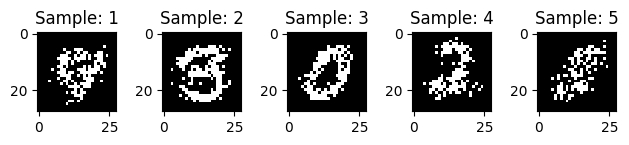
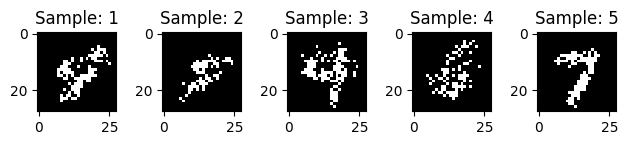
Q7 Left for P9

diff --git a/hw1/programming/pa1.py b/hw1/programming/pa1.py
@@ -12,6 +12,9 @@ import pickle as pkl
 from scipy.io import loadmat
 
 
+NUM_PIXELS = 28*28
+
+
 def plot_histogram(data, title='histogram', xlabel='value', ylabel='frequency',
                    savefile='hist'):
   '''
@@ -50,7 +53,7 @@ def get_p_z2(z2_val):
 
 def get_p_xk_cond_z1_z2(z1_val, z2_val, k):
   '''
-  Helper. Computes the conditional probability that variable xk assumes value 1 
+  Helper. Computes the conditional probability that variable xk assumes value 1
   given that z1 assumes value z1_val and z2 assumes value z2_val
   P(Xk = 1 | Z1=z1_val , Z2=z2_val)
   '''
@@ -60,10 +63,9 @@ def get_p_xk_cond_z1_z2(z1_val, z2_val, k):
 
 def get_p_x_cond_z1_z2(z1_val, z2_val):
   '''
-  Computes the conditional probability of the entire vector x,
+  Computes the conditional probability of the entire vector x for x = 1,
   given that z1 assumes value z1_val and z2 assumes value z2_val
   '''
-  NUM_PIXELS = 28*28
   pk = np.zeros(NUM_PIXELS)
   for i in range(NUM_PIXELS):
     pk[i] = get_p_xk_cond_z1_z2(z1_val, z2_val, i+1)
@@ -72,19 +74,17 @@ def get_p_x_cond_z1_z2(z1_val, z2_val):
 
 def get_pixels_sampled_from_p_x_joint_z1_z2():
   '''
-  This function should sample from the joint probability distribution specified by the model, 
-  and return the sampled values of all the pixel variables (x). 
-  Note that this function should return the sampled values of ONLY the pixel variables (x),
-  discarding the z part.
+  This function should sample from the joint probability distribution specified
+  by the model, and return the sampled values of all the pixel variables (x).
+  Note that this function should return the sampled values of ONLY the pixel
+  variables (x), discarding the z part.
   '''
-  NUM_ZVALS = 25
-  ZVALS = np.linspace(-3.0, 3.0, num=NUM_ZVALS, endpoint=True)
-  z1_dist = [get_p_z1(z_val) for z_val in ZVALS]
+  z1_dist = [get_p_z1(z_val) for z_val in disc_z1]
   assert abs(np.sum(z1_dist) - 1) < 1e-7
-  z2_dist = [get_p_z2(z_val) for z_val in ZVALS]
+  z2_dist = [get_p_z2(z_val) for z_val in disc_z2]
   assert abs(np.sum(z2_dist) - 1) < 1e-7
-  z1_sample = np.random.choice(ZVALS, p=z1_dist)
-  z2_sample = np.random.choice(ZVALS, p=z2_dist)
+  z1_sample = np.random.choice(disc_z1, p=z1_dist)
+  z2_sample = np.random.choice(disc_z2, p=z2_dist)
   pixel_dist = get_p_x_cond_z1_z2(z1_sample, z2_sample)
   return np.array([np.random.choice([1, 0], p=[p1, 1.0-p1])
                    for p1 in pixel_dist])
@@ -99,8 +99,8 @@ def get_conditional_expectation(data):
 
 def q4():
   '''
-  Plots the pixel variables sampled from the joint distribution as 28 x 28 images.
-  Your job is to implement get_pixels_sampled_from_p_x_joint_z1_z2
+  Plots the pixel variables sampled from the joint distribution as 28 x 28
+  images. Your job is to implement get_pixels_sampled_from_p_x_joint_z1_z2
   '''
 
   plt.figure()
@@ -139,18 +139,75 @@ def q5():
   return
 
 
+def get_network_conditionals():
+  '''
+  returns P(z1, z2), P(x = 1 | z_1, z_2), P(x = 1 | z_1, x_2) as 625
+  and 2x625x784 matrices,respectively.
+  '''
+  zs = len(disc_z1) * len(disc_z2)
+  xk_conditional = np.zeros((2, zs, NUM_PIXELS))  # 2x625x784
+  z1_z2_joint = np.zeros(zs)  # 625
+  for i, z1_val in enumerate(disc_z1):
+    for j, z2_val in enumerate(disc_z2):
+      index = i * len(disc_z2) + j
+      z1_z2_joint[index] = get_p_z1(z1_val) * get_p_z2(z2_val)
+      xk_conditional[1, index] = get_p_x_cond_z1_z2(z1_val, z2_val)
+      xk_conditional[0, index] = 1 - xk_conditional[1, index]
+
+  assert abs(np.sum(z1_z2_joint) - 1) < 1e-7
+  return z1_z2_joint, xk_conditional[1], xk_conditional[0]
+
+
+def compute_log_likelikehoods(data, log_x0, log_x1, log_z1_z2):
+  '''
+  Computes the log likelihood for all samples in data using the given
+  distributions.
+  '''
+  log_likelihood = []
+  for sample in data:
+    assert sample.shape == (784,)
+    log_xk_sample = np.where(sample == 1, log_x1, log_x0)
+    assert log_xk_sample.shape == (625, 784)  # Sum over all pixels.
+    log_x_sample = np.sum(log_xk_sample, axis=1)
+    assert log_x_sample.shape == (625,)
+    log_likelihood.append(
+        np.log(np.sum(np.exp(log_x_sample + log_z1_z2))))
+
+  return np.array(log_likelihood)
+
+
 def q6():
   '''
-  Loads the data and plots the histograms. Rest is TODO.
+  Loads the data and plots the histograms.
   '''
 
   mat = loadmat('q6.mat')
   val_data = mat['val_x']
   test_data = mat['test_x']
 
-  '''
-	TODO
-	'''
+  z1_z2_joint, xk1_conditional, xk0_conditional = get_network_conditionals()
+
+  # Use exp-log-sum trick.
+  log_xk0_conditional = np.log(xk0_conditional)
+  log_xk1_conditional = np.log(xk1_conditional)
+  log_z1_z2_joint = np.log(z1_z2_joint)
+
+  validation_log_likelihood = compute_log_likelikehoods(
+      val_data,
+      log_xk0_conditional, log_xk1_conditional, log_z1_z2_joint)
+
+  val_mean = np.mean(validation_log_likelihood)
+  val_stddev = np.std(validation_log_likelihood)
+  print(val_mean)
+  print(val_stddev)
+
+  test_log_likelihood = compute_log_likelikehoods(
+      test_data,
+      log_xk0_conditional, log_xk1_conditional, log_z1_z2_joint)
+
+  is_real_image = np.abs(test_log_likelihood - val_mean) <= (3 * val_stddev)
+  real_marginal_log_likelihood = test_log_likelihood[is_real_image]
+  corrupt_marginal_log_likelihood = test_log_likelihood[~is_real_image]
 
   plot_histogram(real_marginal_log_likelihood,
                  title='Histogram of marginal log-likelihood for real data',
@@ -166,7 +223,8 @@ def q6():
 
 def q7():
   '''
-  Loads the data and plots a color coded clustering of the conditional expectations. Rest is TODO.
+  Loads the data and plots a color coded clustering of the conditional
+  expectations. Rest is TODO.
   '''
 
   mat = loadmat('q7.mat')
@@ -188,7 +246,8 @@ def q7():
 
 def load_model(model_file):
   '''
-  Loads a default Bayesian network with latent variables (in this case, a variational autoencoder)
+  Loads a default Bayesian network with latent variables (in this case, a
+  variational autoencoder)
   '''
 
   with open('trained_mnist_model', 'rb') as infile:
@@ -215,9 +274,9 @@ def main():
   '''
 	TODO: Using the above Bayesian Network model, complete the following parts.
 	'''
-  q4()
+  # q4()
   # q5()
-  # q6()
+  q6()
   # q7()
 
   return

diff --git a/hw1/hw1.tex b/hw1/hw1.tex
@@ -306,7 +306,25 @@ $$
 $$
 P(Z_1, Z_2, X_1, \cdots, X_{784}) = P(Z_1)P(Z_2)\prod_{i=1}^{784}P(X_i \mid Z_1, Z_2)
 $$
-We further note that $|Val(Z_i)| = 25$, so you need $2(25-1) = 48$ parameters to specify $P(Z_1)$ and $P(Z_2)$. For each of $P(X_i \mid Z_1, Z_2)$, a total of $25*25*2 - 1 = 1249$ parameters are needed. This means the conditional distributions need a total of $979,216$ parameters to be specified, bringing the grand total for the network to $979,264 \approx 1M$.
+We further note that $|Val(Z_i)| = 25$, so you need $2(25-1) = 48$ parameters to specify $P(Z_1)$ and $P(Z_2)$. For each of $P(X_i \mid Z_1, Z_2)$, a total of $25*25 - 1 = 624$ parameters are needed (this is becase knowing $P(X=1 \mid Z_1, Z_2$ also lets us know $P(X = 0 \mid Z_1, Z_2)$). This means the conditional distributions need a total of $624 * 784 = 489,216$ parameters to be specified, bringing the grand total for the network to $489,264 \approx 0.5M$.
+\item We show the five samples in Figure 
+\begin{figure}[h!]
+\centering
+\includegraphics{programming/a4.png}
+\caption{Sampled Digits from Model}
+\label{fig:sampled_digits}
+\end{figure}
+
+\item We show the plot as we vary $Z_1$ and $Z_2$ in Figure \ref{fig:latent_variables}.
+\begin{figure}[h!]
+\centering
+\includegraphics{programming/a5.png}
+\caption{Exploring Space of Latent Variables}
+\label{fig:latent_variables}
+\end{figure}
+
+The intuitive role for $Z_1$ (x-axis) appears to indicate how circular the value is (from 0 to 7 and from 3 to black). $Z_2$ on the other hand is more difficult to tell intuitively, though it appears to determine the horizontal width/lines.
+
 \item 
 \end{enumerate}
 \end{document}
